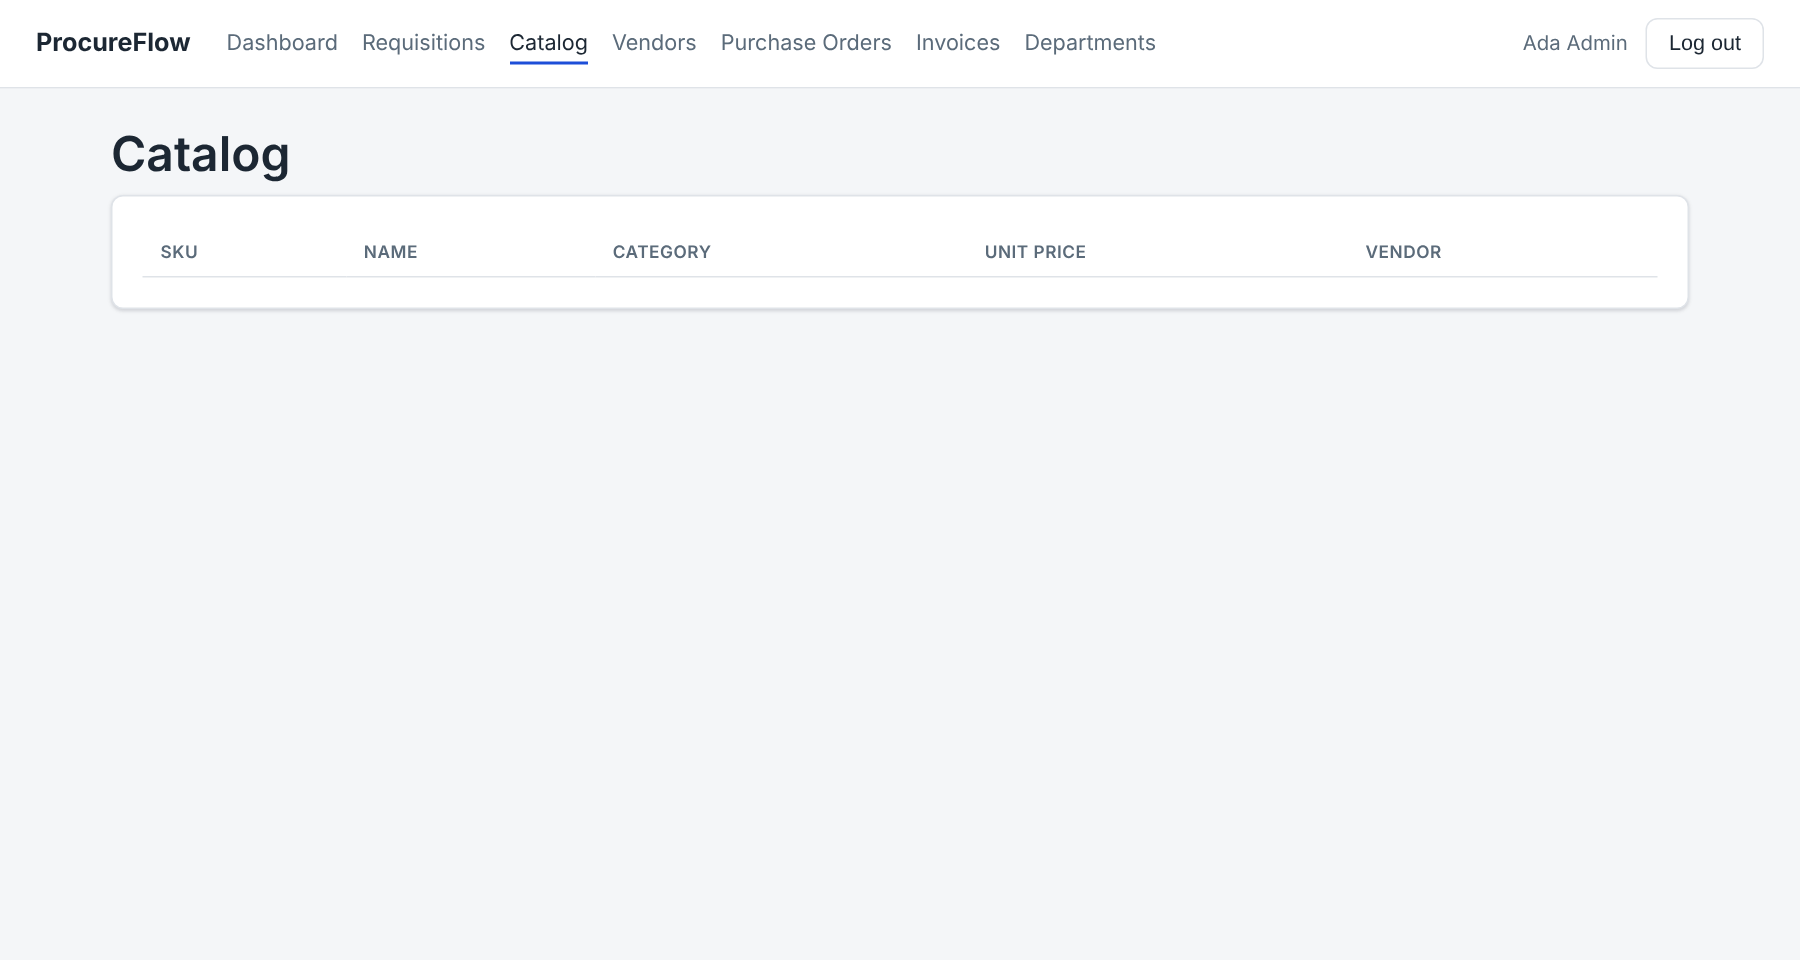
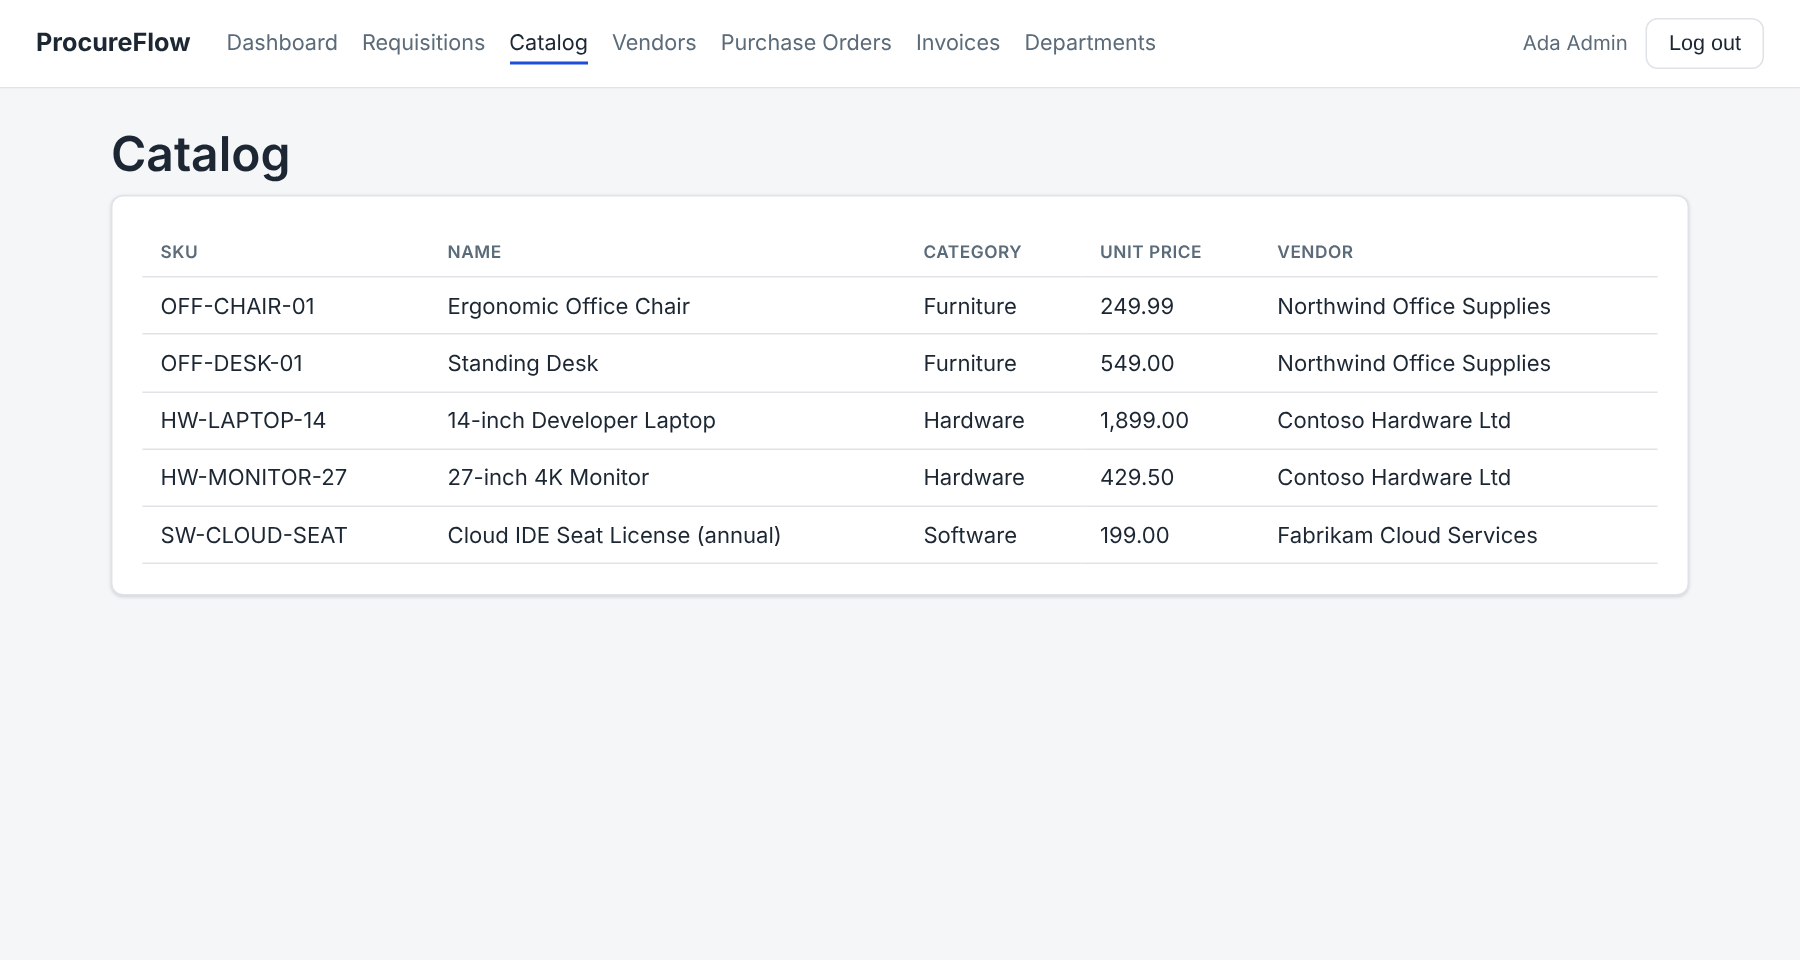
Use real captures for every screenshot now that the lazy-loading bug is fixed
Claude-Session: https://claude.ai/code/session_01MMnAbBEvfYn2oeVzGWoYsN

diff --git a/README.md b/README.md
@@ -9,19 +9,19 @@ to professional engineering standards. Part of a developer portfolio — see
 
 ![Sign-in page](docs/screenshots/login.png)
 
+![Manager dashboard with requisitions awaiting approval](docs/screenshots/dashboard.png)
+
+![A requisition's line items and approval chain](docs/screenshots/requisition-detail.png)
+
+![An employee's requisitions](docs/screenshots/requisitions.png)
+
 ![Catalog](docs/screenshots/catalog.png)
 
 ![Vendors, with an approval pending](docs/screenshots/vendors.png)
 
 ![Departments](docs/screenshots/departments.png)
 
-_The four images above are real captures from a local run (Spring Boot jar, Angular dev server, PostgreSQL, the seeded demo data and the admin demo account), driven with Playwright._
-
-![Dashboard (illustrative mockup)](docs/screenshots/dashboard.png)
-
-![Requisition with its approval chain (illustrative mockup)](docs/screenshots/requisition-detail.png)
-
-_The last two images are **illustrative mockups**, not captures. In the build used for the real captures, endpoints that return a requisition (list, detail, pending approvals, submit, decide) failed with a `LazyInitializationException` as soon as a requisition existed, so those screens could not be captured honestly. Treat these two as how the screens are meant to look, not as verified current behaviour._
+_Real captures from a local run (Spring Boot jar, Angular dev server, PostgreSQL, the seeded demo accounts and reference data), driven with Playwright. The requisitions were created through the API and one was approved by the manager account._
 
 ## What it does
 
